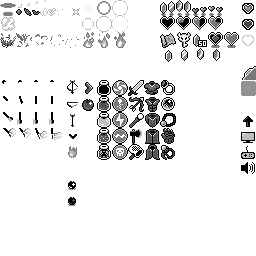
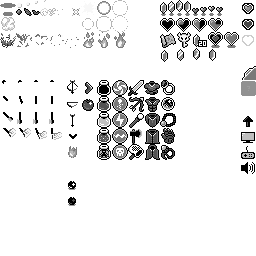
remade UI gold sprite to match the chest reward sprite, but without the background and text. i've made a design decision to limit the total gold to 99. aligned the goldAmount text in loadout widget to new gold amount sprite. updated the info widget with a goldAmount text component & bkg, so it can m
reduced reward gold to 20 in sprite sheet.
changed ObjType enum ParticleReward50Gold to ParticleRewardGold.
updated various codepaths to use the more generic enum value ParticleRewardGold.
reduced the chance of an enemy dropping gold to 30% (in SpawnLoot()).
now limiting the hero's max gold amount to 99 in WorldUI.Update().

updated InteractionFunctions.Interact(Actor, Obj) to scale Bumper obj up to 1.5.
playtested, working as expected.

moved heart piece sprites +2 on Y axis in sprite sheet, for better alignment in loadout widget.

bug: pick up a piece of heart, open menu, select heart piece, resets to empty heart piece.
cause: loadout widget was setting the sprite's current frame, which was then overwritten by the component animation's list.
solution: set the component animation's list, then call Animate(HeartPiece MenuItem) from LoadoutWidget.Reset().
playtested, working as expected.

Changed region(s): [[0.625, 0.1875, 0.875, 0.25], [0.625, 0.0625, 0.875, 0.125]]

diff --git a/DungeonRun/Classes/MenuWidgetLoadout.cs b/DungeonRun/Classes/MenuWidgetLoadout.cs
@@ -21,7 +21,6 @@ namespace DungeonRun
         public static ComponentText goldAmount;
         public static Rectangle goldBkg;
 
-
         static MenuWidgetLoadout()
         {
             window = new MenuWindow(new Point(-100, -100),
@@ -36,10 +35,10 @@ namespace DungeonRun
             menuItems[0].description = "a magical boomerang\nthat always returns";
             menuItems[0].compSprite.currentFrame = new Byte4(5, 5, 0, 0);
 
-            //create the gold amount text and background
-            goldAmount = new ComponentText(Assets.font, "999", 
+            //create the gold amount text
+            goldAmount = new ComponentText(Assets.font, "99", 
                 new Vector2(0, 0), Assets.colorScheme.textLight);
-            goldBkg = new Rectangle(0, 0, 13, 7);
+            goldBkg = new Rectangle(0, 0, 9, 7);
         }
 
         public static void Reset(Point Position, Point Size)
@@ -92,9 +91,10 @@ namespace DungeonRun
             MenuItemFunctions.SetMenuItemData(MenuItemType.InventoryHeartPieces, menuItems[5]);
 
             //set the inventory heart pieces frame, based on the number of heart pieces hero has
-            menuItems[5].compSprite.currentFrame.x = 10; //default to empty
             //add the piece counter to the current X frame, pieceCounter will always be less than 5
-            menuItems[5].compSprite.currentFrame.x += (byte)WorldUI.pieceCounter;
+            menuItems[5].compAnim.currentAnimation = new List<Byte4>
+            { new Byte4((byte)(10 + WorldUI.pieceCounter), 1, 0, 0) };
+            AnimationFunctions.Animate(menuItems[5].compAnim, menuItems[5].compSprite);
 
             if (DungeonFunctions.dungeon.map) //if player found the map, display it
             { MenuItemFunctions.SetMenuItemData(MenuItemType.InventoryMap, menuItems[6]); }
@@ -104,16 +104,14 @@ namespace DungeonRun
             else { MenuItemFunctions.SetMenuItemData(MenuItemType.Unknown, menuItems[7]); }
 
             //place the goldAmount text component & bkg to the gold menuItem
-            goldAmount.position.X = menuItems[4].compSprite.position.X - 5;
-            goldAmount.position.Y = menuItems[4].compSprite.position.Y - 3;
+            goldAmount.position.X = menuItems[4].compSprite.position.X - 1;
+            goldAmount.position.Y = menuItems[4].compSprite.position.Y - 4;
             goldBkg.X = (int)goldAmount.position.X - 1;
             goldBkg.Y = (int)goldAmount.position.Y + 4;
 
-            //apply padding so goldAmount is always 3 digits, limit to 999
+            //apply padding so goldAmount is always 2 digits
             goldAmount.text = "";
-            if (PlayerData.saveData.gold < 10) { goldAmount.text += "00"; }
-            else if (PlayerData.saveData.gold < 100) { goldAmount.text += "0"; }
-            else if (PlayerData.saveData.gold > 999) { PlayerData.saveData.gold = 999; }
+            if (PlayerData.saveData.gold < 10) { goldAmount.text += "0"; }
             goldAmount.text += PlayerData.saveData.gold;
         }
 
@@ -129,7 +127,6 @@ namespace DungeonRun
             {
                 for (i = 0; i < menuItems.Count; i++)
                 { DrawFunctions.Draw(menuItems[i].compSprite); }
-                //draw gold amount with background
                 ScreenManager.spriteBatch.Draw(
                     Assets.dummyTexture, goldBkg,
                     Assets.colorScheme.textDark);

diff --git a/DungeonRun/Classes/MenuWidgetInfo.cs b/DungeonRun/Classes/MenuWidgetInfo.cs
@@ -17,6 +17,8 @@ namespace DungeonRun
 
         public static MenuWindow window;
         public static MenuItem infoItem;
+        public static ComponentText goldAmount;
+        public static Rectangle goldBkg;
         public static ComponentText description;
         public static MenuRectangle divider1;
 
@@ -32,6 +34,10 @@ namespace DungeonRun
                 Assets.colorScheme.textDark);
             divider1 = new MenuRectangle(new Point(-100, -100), 
                 new Point(0, 0), Assets.colorScheme.windowInset);
+            //create the gold amount text
+            goldAmount = new ComponentText(Assets.font, "99",
+                new Vector2(0, 0), Assets.colorScheme.textLight);
+            goldBkg = new Rectangle(0, 0, 9, 7);
         }
 
         public static void Reset(Point Position, Point Size)
@@ -50,6 +56,11 @@ namespace DungeonRun
             divider1.size.X = Size.X - 16;
             divider1.size.Y = 1;
             divider1.Reset();
+            //align the goldAmount to the infoItem
+            goldAmount.position.X = infoItem.compSprite.position.X - 1;
+            goldAmount.position.Y = infoItem.compSprite.position.Y - 4;
+            goldBkg.X = (int)goldAmount.position.X - 1;
+            goldBkg.Y = (int)goldAmount.position.Y + 4;
         }
 
         public static void Display(MenuItem MenuItem)
@@ -57,6 +68,10 @@ namespace DungeonRun
             infoItem.compAnim.currentAnimation = MenuItem.compAnim.currentAnimation;
             window.title.text = MenuItem.name;
             description.text = MenuItem.description;
+            //if we are displaying the inventory gold menu item, also display the goldAmount + goldBkg
+            if (MenuItem.type == MenuItemType.InventoryGold)
+            { goldAmount.text = MenuWidgetLoadout.goldAmount.text; goldBkg.Width = 9; }
+            else { goldAmount.text = ""; goldBkg.Width = 0; }
         }
 
         public static void Update()
@@ -74,6 +89,10 @@ namespace DungeonRun
             {
                 DrawFunctions.Draw(infoItem.compSprite);
                 DrawFunctions.Draw(description);
+                ScreenManager.spriteBatch.Draw(
+                    Assets.dummyTexture, goldBkg,
+                    Assets.colorScheme.textDark);
+                DrawFunctions.Draw(goldAmount);
             }
         }
 

diff --git a/DungeonRun/Classes/GameObjectFunctions.cs b/DungeonRun/Classes/GameObjectFunctions.cs
@@ -48,10 +48,10 @@ namespace DungeonRun
 
         public static void SpawnLoot(Vector2 Pos)
         {   //either spawn a rupee or a heart item
-            if (GetRandom.Int(0, 100) > 50)
-            { SpawnProjectile(ObjType.ItemRupee, Pos.X, Pos.Y, Direction.Down); }
-            else
+            if (GetRandom.Int(0, 100) > 30)
             { SpawnProjectile(ObjType.ItemHeart, Pos.X, Pos.Y, Direction.Down); }
+            else
+            { SpawnProjectile(ObjType.ItemRupee, Pos.X, Pos.Y, Direction.Down); }
         }
 
         public static void SetWeaponCollisions(GameObject Obj)
@@ -110,7 +110,7 @@ namespace DungeonRun
                 //need to flip the projectile sprite based on it's direction
             }
             //place reward particles above actor's head
-            else if (Type == ObjType.ParticleReward50Gold ||
+            else if (Type == ObjType.ParticleRewardGold ||
                 Type == ObjType.ParticleRewardKey ||
                 Type == ObjType.ParticleRewardMap ||
                 Type == ObjType.ParticleRewardHeartFull ||
@@ -485,7 +485,7 @@ namespace DungeonRun
                 Obj.compAnim.loop = true;
             }
             //Particles - rewards
-            else if (Type == ObjType.ParticleReward50Gold ||
+            else if (Type == ObjType.ParticleRewardGold ||
                 Type == ObjType.ParticleRewardKey ||
                 Type == ObjType.ParticleRewardMap ||
                 Type == ObjType.ParticleRewardHeartPiece ||

diff --git a/DungeonRun/Classes/InteractionFunctions.cs b/DungeonRun/Classes/InteractionFunctions.cs
@@ -137,9 +137,9 @@ namespace DungeonRun
                 {   //reward the hero with the chests contents
                     if (Obj.type == ObjType.ChestGold)
                     {
-                        GameObjectFunctions.SpawnProjectile(ObjType.ParticleReward50Gold, Actor);
+                        GameObjectFunctions.SpawnProjectile(ObjType.ParticleRewardGold, Actor);
                         Assets.Play(Assets.sfxReward);
-                        PlayerData.saveData.gold += 50; //give the hero 50 gold
+                        PlayerData.saveData.gold += 20;
                     }
                     else if (Obj.type == ObjType.ChestKey)
                     {
@@ -229,9 +229,9 @@ namespace DungeonRun
 
                     //actors can collide with bumper twice per frame, due to per axis collision checks
                     //only play the bounce sound effect if the bumper hasn't been hit this frame
-                    if (Obj.compSprite.scale < 1.25f) { Assets.Play(Assets.sfxBounce); } 
+                    if (Obj.compSprite.scale < 1.5f) { Assets.Play(Assets.sfxBounce); } 
                     //if the bumper was hit this frame, scale it up
-                    Obj.compSprite.scale = 1.25f;
+                    Obj.compSprite.scale = 1.5f;
                     GameObjectFunctions.SpawnProjectile(ObjType.ParticleDashPuff, Actor);
                 }
 

diff --git a/DungeonRun/Classes/WorldUI.cs b/DungeonRun/Classes/WorldUI.cs
@@ -130,6 +130,9 @@ namespace DungeonRun
             //scale current weapon and item back down to 1.0
             if (currentWeapon.scale > 1.0f) { currentWeapon.scale -= 0.05f; }
             if (currentItem.scale > 1.0f) { currentItem.scale -= 0.05f; }
+
+            //limit the hero's gold to a max of 99
+            if (PlayerData.saveData.gold > 99) { PlayerData.saveData.gold = 99; }
         }
 
         public static void Draw()

diff --git a/DungeonRun/Classes/Enumerators.cs b/DungeonRun/Classes/Enumerators.cs
@@ -57,7 +57,7 @@ namespace DungeonRun
         ParticleExplosion, ParticleAttention,
         ParticleFire,
         //Particles - rewards
-        ParticleReward50Gold, ParticleRewardKey, ParticleRewardMap,
+        ParticleRewardGold, ParticleRewardKey, ParticleRewardMap,
         ParticleRewardHeartPiece, ParticleRewardHeartFull,
     }
 
